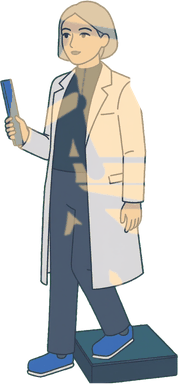
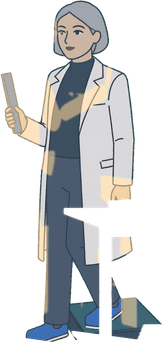
LEHRSAAL: Wieser zwischen Leinwand und Dozententisch (Leinwand frei), Uhr ohne Klickfeld (Entscheide des Nutzers)

diff --git a/web/spiel.js b/web/spiel.js
@@ -578,7 +578,7 @@
         /* Die Leinwand vor Dr. Wieser: das spätere Feld liegt oben, wer auf Wieser klickt, trifft sie; der Rest ist Leinwand. */
         { id: "projektion", name: T("Leinwand"), punkte: zone("lehrsaal", "projektion", [602, 131, 969, 360]),
           bei: function () { melde("Auf der Leinwand läuft dieselbe Ableitung, groß wie auf Papier."); } },
-        { id: "wieser", name: T("Dr. Wieser"), punkte: zone("lehrsaal", "wieser", [637, 208, 815, 592]),
+        { id: "wieser", name: T("Dr. Wieser"), punkte: zone("lehrsaal", "wieser", [962, 217, 1124, 559]),
           bei: function () { global.Dialog.starte("wieser", "start"); } },
         { id: "jonas", name: T("Jonas"), punkte: zone("lehrsaal", "jonas", [330, 330, 600, 420]),
           sichtbar: function () { return !!(KUNST.szenen.lehrsaal.zonen || {}).jonas; },   /* erst mit seiner Figur */
@@ -595,9 +595,8 @@
             if (hat("ls_lineal")) { melde("Dein Lineal steckt schon in der Kitteltasche."); return; }
             setze("ls_lineal"); global.Szene.aktualisiere();
             melde("Du nimmst ein blaues Lineal aus der Schachtel.");
-          } },
-        { id: "uhr", name: T("Uhr"), punkte: zone("lehrsaal", "uhr", [753, 28, 817, 93]),
-          bei: function () { melde(T("Es ist {zeit}.", { zeit: zeitText() })); } }
+          } }
+        /* Keine Uhr-Zone: bei 4:3 liegt die Uhr unter dem HUD, die Zeit steht dort ohnehin (Entscheid des Nutzers 26.10.2026). */
       ],
       ausgaenge: [
         { name: T("Zurück in die Aufnahme"), nach: "aufnahme", punkte: zone("lehrsaal", "ausgang", [1536, 600, 1600, 880]) }

diff --git a/gen/blender/ebenen_figuren.py b/gen/blender/ebenen_figuren.py
@@ -423,12 +423,12 @@ def aufbau(raum):
         tritt = bpy.data.objects.new("wieser_tritt", me); tritt.data.materials.append(figuren.material("fig_rollkragen"))
         bpy.data.collections["figuren"].objects.link(tritt); figs["wieser"].teile.append(tritt)
         sichtbar = lambda o: True
-        # Nichts im Raum steht vor den beiden (Jonas liegt AUF der Liege): keine Verdeckung, sonst schnitte die Polsterkante
-        # Löcher in den gezeichneten Jonas. Die Zonen `jonas` und `liege` (Elektroden-Aufgabe) bleiben getrennt; die Leinwand
+        # Vor Wieser steht der Dozententisch (verdeckt sie, `None` = jedes Raumobjekt davor); Jonas liegt AUF der Liege: keine
+        # Verdeckung, sonst schnitte die Polsterkante Löcher in den gezeichneten Jonas. Die Zonen `jonas` und `liege` (Elektroden-Aufgabe) bleiben getrennt; die Leinwand
         # bleibt ganz (Wieser liegt im Spiel als späteres Feld darüber, Spieltest 26.10.2026). Die Quellbilder (art/figuren_quelle) stammen aus dem alten Seminarraum: ausrichten aus.
         return dict(cam=sc.camera, figs=figs, raum_sichtbar=sichtbar, sonne_sichtbar=sichtbar, sonne_stellen=sonne_stellen,
                     klasse={"wieser": "atmet", "jonas": "atmet"}, unten={}, kontext={"wieser": [], "jonas": []},
-                    verdecker={"wieser": [], "jonas": []}, getrennt={"jonas": "liege"},
+                    verdecker={"wieser": None, "jonas": []}, getrennt={"jonas": "liege"},
                     ausrichten={"jonas": False, "wieser": False},
                     einstellung=dict(licht=k["licht"], anteil=k["anteil"], schwelle=0.35, weich=0.7,
                                      schattenfarbe=k["schattenfarbe"], schatten=k["schatten"]))

diff --git a/gen/blender/figuren.py b/gen/blender/figuren.py
@@ -48,9 +48,10 @@ PLATZ = {
     # Lehrsaal (Hauskoordinaten, szene_lehrsaal.py; Spielkamera an der ersten Bank, Blick −x, im Bild rechts = +y).
     # Jonas auf der Liegefläche (0,75 m) quer vor dem Giebelfenster: Kopf zur Fensterwand (Kopfmitte y ≈ 0,55, auf Kissen und
     # Kopfteil), Füße zur Leinwand (y ≈ 2,25), rechte Seite (rote Klemme) zur Klasse (+x): drehung 180.
-    # Dr. Wieser auf dem freien Boden am Fußende der Liege, knapp links der Leinwand: Körper zur Leinwand gedreht, Kopf zur Klasse
-    # (`blick` 90 = +x), linker Fuß auf ihrem Tritt (Teil ihrer Zeichnung, kein Raumobjekt).
-    "wieser": dict(ort=(1.75, 2.6, 0.0), drehung=150, blick=90, haltung="tritt"),
+    # Dr. Wieser zwischen Leinwand und Dozententisch (Entscheid des Nutzers 26.10.2026: am Fußende der Liege deckte sie die Kurve),
+    # im Bild knapp rechts der Leinwand: Körper zum Tisch mit den Linealen, Kopf zur Klasse (`blick` 90 = +x), linker Fuß auf ihrem
+    # Tritt (Teil ihrer Zeichnung, kein Raumobjekt); der Tisch steht vor ihr und verdeckt Beine und Tritt teilweise.
+    "wieser": dict(ort=(1.4, 4.35, 0.0), drehung=150, blick=90, haltung="tritt"),
     "jonas": dict(ort=(1.175, 1.35, 0.75), drehung=180, haltung="liegen"),
 }
 TINTE = "fig_tinte"

diff --git a/docs/raeume/lehrsaal.md b/docs/raeume/lehrsaal.md
@@ -131,7 +131,7 @@ siehe `docs/UMBAU.md` §5). Bis dahin zeigt die Projektion nur Ableitung II und 
 | `projektion` | öffnet die große Ansicht (Papier, Ableitungen, Lagetyp, Zacken benennen) | Leinwand |
 | `whiteboard` | Herzschema / Einthoven-Dreieck (Rätsel „Reizleitung bauen" wandert hierher) | Tafel |
 | `lineale` | Lineal nehmen (einmalig; danach „erledigt") | Schachtel |
-| `uhr` | Uhrzeit-Meldung | Zifferblatt |
+| `uhr` | nur noch für die Zeiger (`gen/kunst.py`), kein Klickfeld: bei 4:3 liegt die Uhr unter dem HUD (Nutzer 26.10.2026) | Zifferblatt |
 | `bank` | eigene Bank: öffnet den Zirkel (RR an Jonas' Ableitung II), Wunsch des Nutzers 26.10.2026 | Block, Streifen, Zirkel |
 | `ausgang` | zur Aufnahme — frei erst, wenn die Pflichtaufgaben der Lektionen 1–7 gezeigt sind (Fallakte) | Pfeil am rechten Bildrand (die Türen liegen außerhalb des Bilds) |
 
@@ -199,7 +199,7 @@ Hauskoordinaten (KRANKENHAUS §2), Werte in `gen/blender/szene_lehrsaal.py` oben
 | EKG-Wagen | Mitte (1,9 / 0,02), schräg vor dem Kopfende, im Bild mit Abstand links der Liege; Schirm 0,36 × 0,24 um 38° zur ersten Bank gedreht |
 | Tischreihen | Tischmitten x 5,0 / 6,2 / 7,4 / 8,6 / 9,8; Blöcke y 1,35 … 3,15 und 4,05 … 5,85; Tisch 0,5 tief, 0,74 hoch; Stühle 0,55 hinter der Tischmitte |
 | Decke | Latten z 3,31 … 3,36, Lichtbänder darunter, Ringleuchten Ø 1,1 m auf z 2,75 bei x 7,8 |
-| Figuren | Dr. Wieser 1,72 m am Fußende der Liege (1,75 / 2,6), Körper zur Leinwand, Kopf zur Klasse, linker Fuß auf ihrem Tritt (Teil der Figur), deckt die linke untere Ecke der Leinwand; Jonas 1,80 m liegend (Kopf zur Fensterwand, Oberkörper auf dem 20°-Kopfteil, rechte Seite zur Klasse), Werte in `figuren.PLATZ` |
+| Figuren | Dr. Wieser 1,72 m zwischen Leinwand und Dozententisch (1,4 / 4,35, Nutzer 26.10.2026: am Fußende deckte sie die Kurve), Kopf zur Klasse, linker Fuß auf ihrem Tritt (Teil der Figur, vom Tisch verdeckt); Jonas 1,80 m liegend (Kopf zur Fensterwand, Oberkörper auf dem 20°-Kopfteil, rechte Seite zur Klasse), Werte in `figuren.PLATZ` |
 
 Alles steht auf dem Boden, Wege frei: Fenstergang 0,9 m, Mittelgang 0,9 m, Flurgang 1,1 m; vorn 2,6 m zwischen
 Leinwand und erster Reihe.
